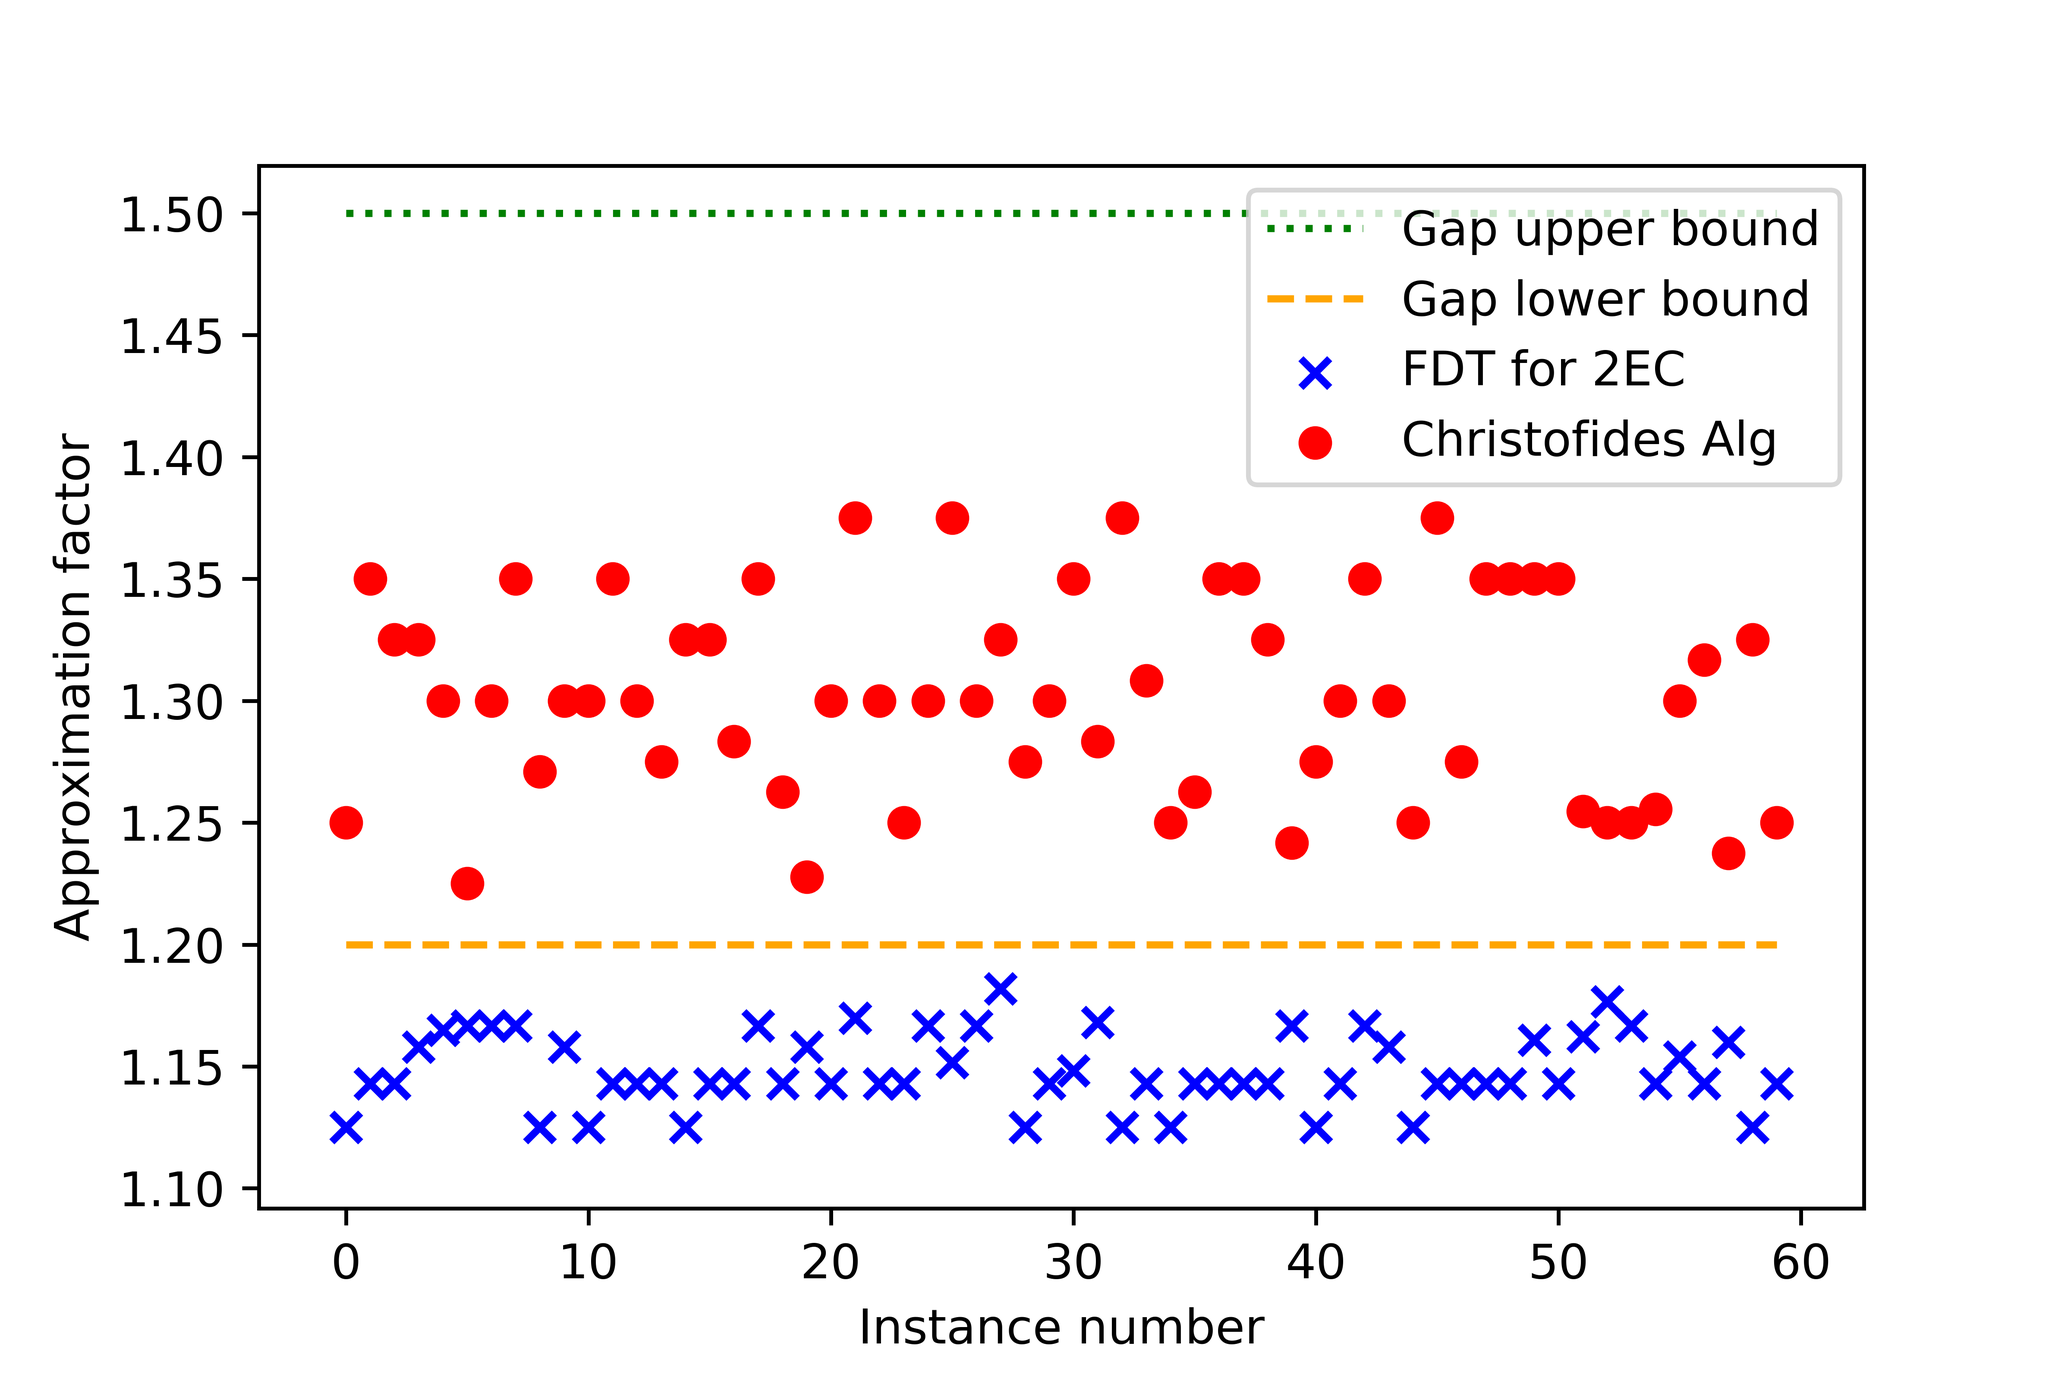
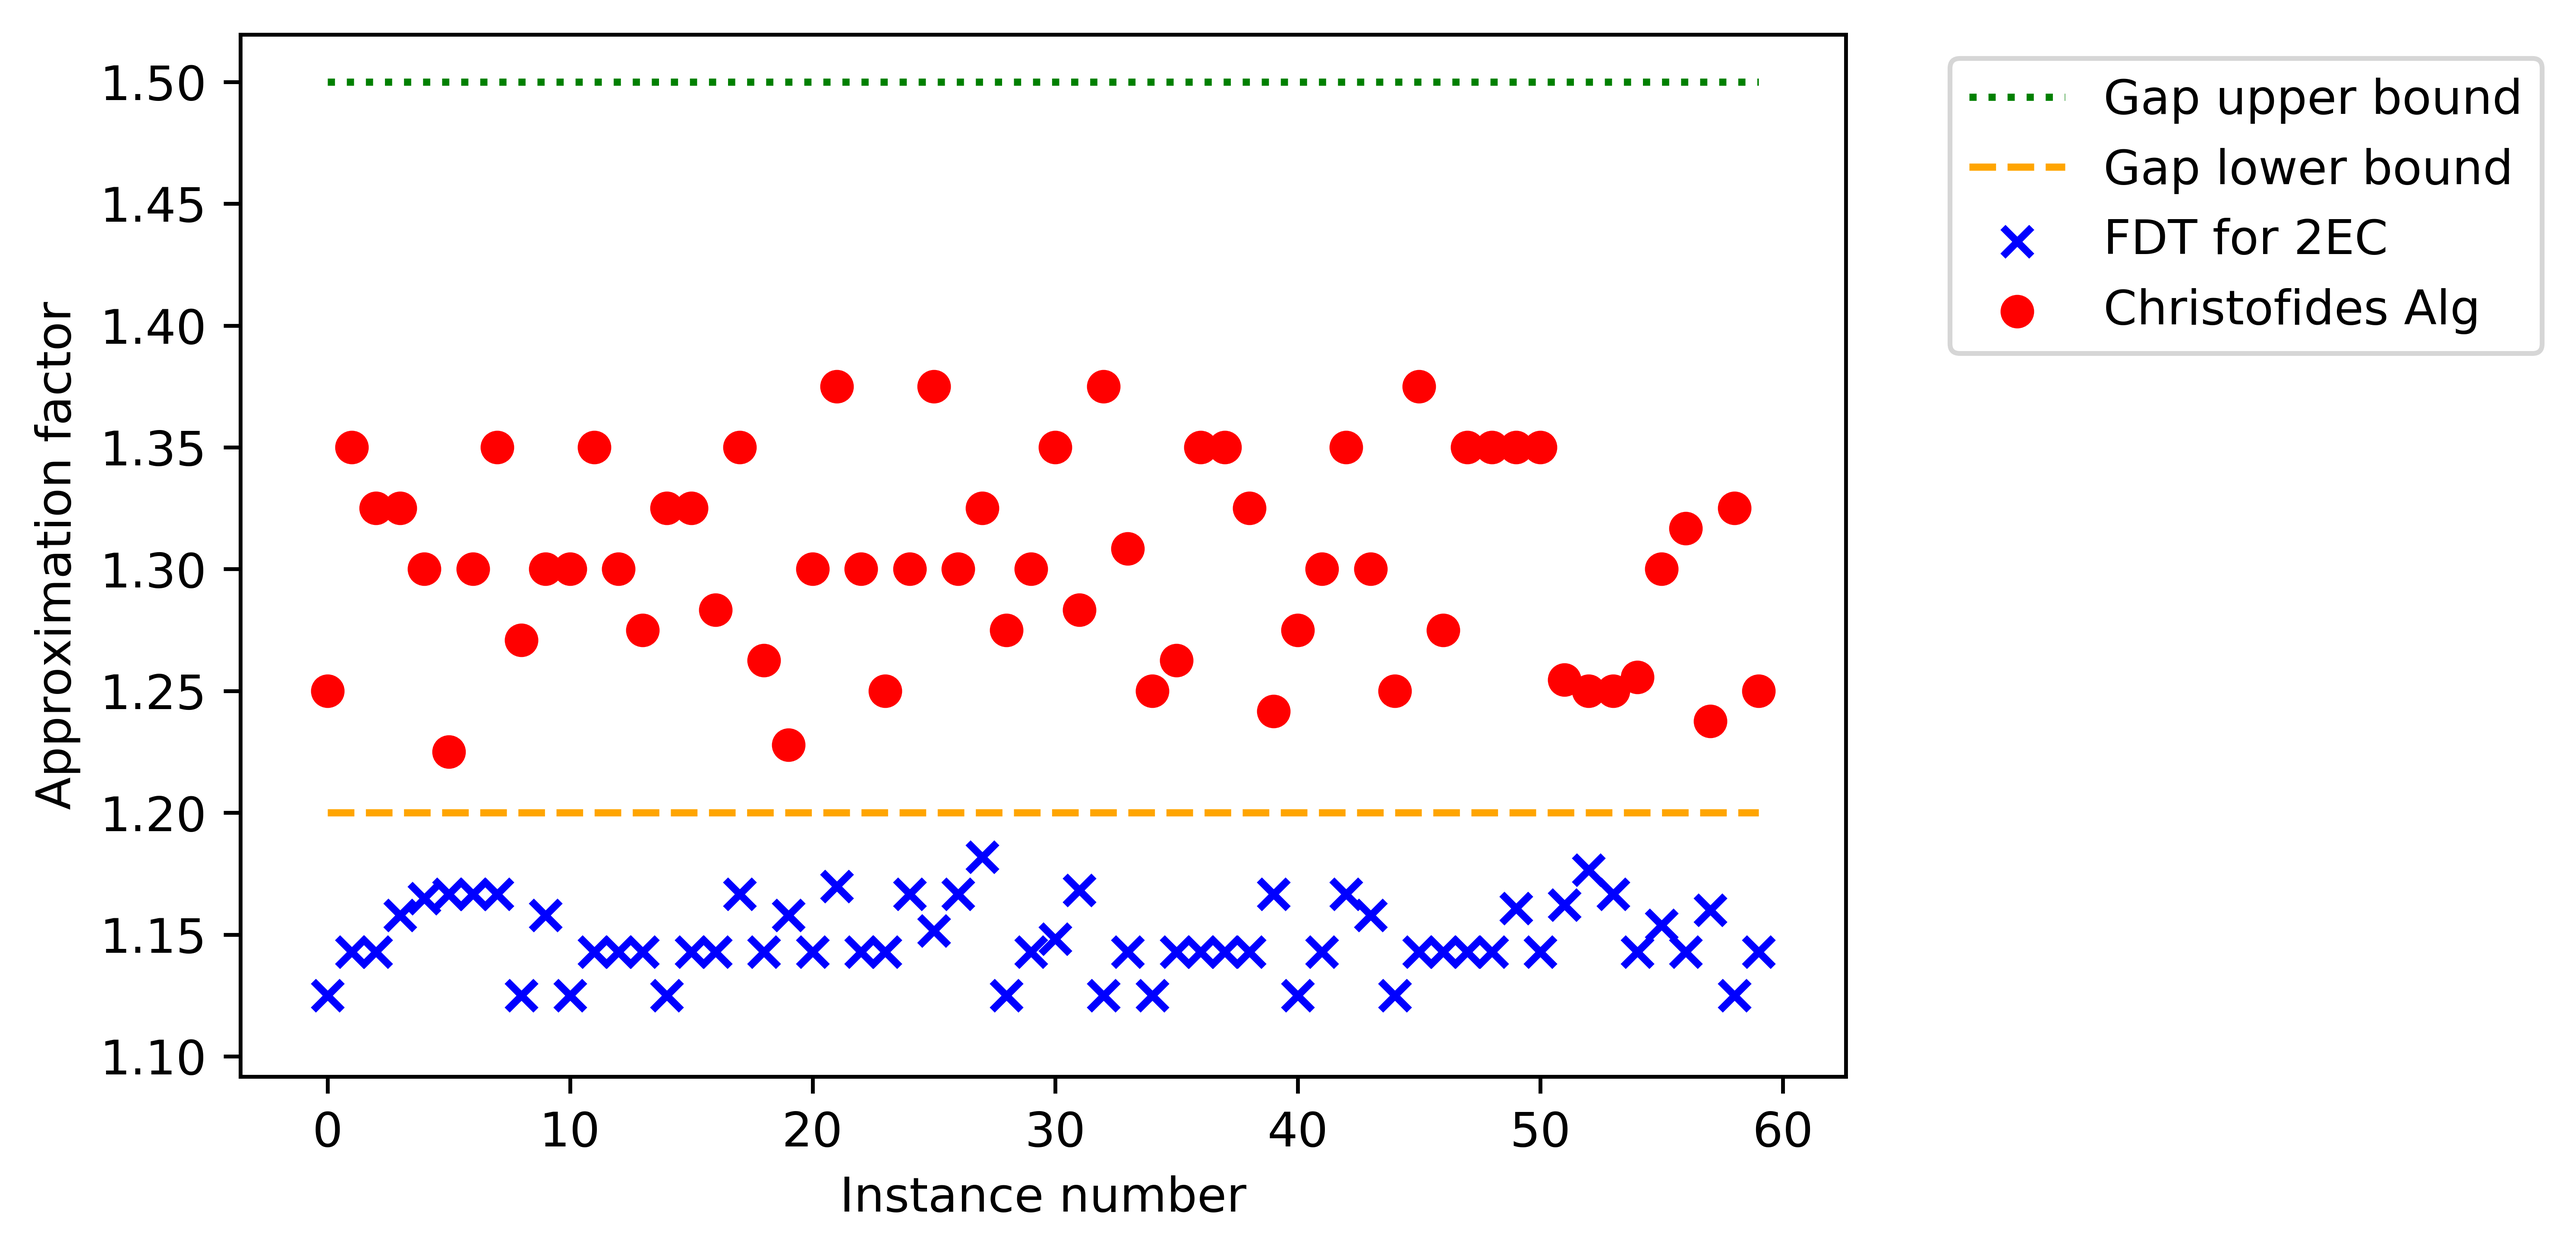
chris vs FDT plot updated (leneged out of the plot now)

diff --git a/FDT2020/main-section.tex b/FDT2020/main-section.tex
@@ -7,7 +7,7 @@
 In this section we give the algorithm for DomToIP and prove its performance (Theorem~\ref{domtoIP}).
 
 Consider an instance $I=(A,b)$ of the IP formulation. Define sets $S(I)$ and $P(I)$ as in (\ref{S}) and (\ref{P}), respectively. Assume $S(I)\subseteq \{0,1\}^n$ and $P(I)\subseteq [0,1]^n$. For simplicity in the notation we assume an instance $I$ and denote $P(I),S(I),$ and $g(I)$ by $P$, $S$, and $g$ for this section and the next section. Also, for both sections we assume $t=|\spp(x)|$. Without loss of generality we can assume $x_i = 0$ for $i=t+1,\ldots,n$.
-\cindy{TODO: Is this something that should be clear to the reader with what they know at this point? Does it need an explanation? Does it need an explanation at the end of this section or the next?}
+\cindy{TODO: Is this something that should be clear to the reader with what they know at this point? Does it need an explanation? Does it need an explanation at the end of this section or the next?}\arash{this is just a relabeling of the indices.}
 
 In this section we prove Theorem \ref{domtoIP}. In fact, we prove a stronger result. 
 \begin{lemma}\label{domlemma}
@@ -309,7 +309,7 @@ Recall that in the tree-augmentation problem (TAP) we are given a tree $T=(V,E)$
 \begin{equation*}
 g(\tap) = \max_{c\in \mathbb{R}^L_{\geq 0}} \frac{\min_{x\in\tap(T,L)} cx}{\min_{x\in\cut(T,L)} cx},
 \end{equation*}  
-where $TAP(T,L)$ is the feasible set for the IP and $CUT(T,L)$ is the feasible set for the cut LP (relaxation). We know $\frac{3}{2}\leq g(\tap)\leq 2$~\cite{FJ81,32gaptap}. Notice that $\min_{x\in \tap(T,L)}cx$ is a binary IP. 
+where $TAP(T,L)$ is the feasible set for the IP and $CUT(T,L)$ is the feasible set for the cut LP (relaxation). \arash{Did you intentionally change the TAP and CUT module? They print as italic now as opposed to how they look in $\tap(T,L)$ and $\cut(T,L)$} We know $\frac{3}{2}\leq g(\tap)\leq 2$~\cite{FJ81,32gaptap}. Notice that $\min_{x\in \tap(T,L)}cx$ is a binary IP. 
 
 As input for our experiments, we considered full binary trees with 3 to 7 levels with a link for each pairs of leaves. We set the link costs uniformly at random.  We summarize these test instances in Table~\ref{tableTAP}. We ran binary FDT on each test instance and chose the solution with minimum cost. We compare the FDT solutions to those from the circulation-based 2-approximation algorithm of Frederickson and J\'{a}J\'{a}~\cite{FJ81} in Figure \ref{fjvsfdt}.  
 \cindy{We should say something about running time.  Since we showed running time in part a, the reader will just assume otherwise that our running time is terrible compared to the Fredrickson and J\'{a}J\'{a} algorithm.}
@@ -338,6 +338,7 @@ For all 450 instances in our experiments, running FDT on the LP optimal (fractio
 In fact, the integrality gap upper bound derived this way was equal to $\frac{3}{2}$ for only one instance.
 %the upper bound we provided by our experiment is at $\frac{3}{2}$.
 For 425 instances, the integrality gap upper bound was $\frac{4}{3}$, for 22 instances it was $\frac{6}{5}$, for 2 instances it was $\frac{8}{7}$.
+\arash{it's all correct, I'm running the experiments again to get the running time so these numbers might change.}
 \paragraph{Computational comparison between Christofides' algorithm and FDT for 2EC on Carr-Vempala points.} 
 
 First we need to describe the polyhedral version Christofides' algorithm. We do this specifically for the Carr-Vempala points. Let $x$ be a Carr-Vempala points defined on a graph $G=(V,E)$. It is well known that $\frac{|V|-1}{|V|}\cdot x$ is in the convex hull of incidence vectors of spanning trees of $G$. Hence, we can write $\frac{|V|-1}{|V|}\cdot x= \sum_{i=1}^{k}\lambda_i\chi^{T_i}$ where $T_i$ is spanning tree of $G$, $\sum_{i=1}^{k}\lambda_i=1$, and $\lambda_i\geq 0$ for $i\in [k]$. Let $O_i$ be the set of odd degree vertices of $T_i$. It is easy to see that $\frac{x}{2}$ is in the convex hull of incidence vectors of $O_i$-join of $G$, namely $O_i\join(G)$~\footnote{For graph $G=(V,E)$ and $O\subseteq V$ with $|O|$ even, and $O$-join of $G$ is a subgraph of $G$ that has odd degree on the vertices in $O$ and even degree on vertices in $V\setminus O$.}. 

diff --git a/FDT2020/FDT.tex b/FDT2020/FDT.tex
@@ -154,7 +154,7 @@ graphicx, verbatim, listings, color, fancybox}
 
 \author{\textsc{Robert Carr}\thanks{University of New Mexico  {\tt{bobcarr@unm.edu}}. This material is based upon research supported in part by
 the U.S. Office of Naval Research under award number N00014-18-1-2099.}
-\and \textsc{Arash Haddadan}\thanks{Carnegie Mellon University  {\tt{ahaddada@andrew.cmu.edu}}.}
+\and \textsc{Arash Haddadan}\thanks{University of Virginia \tt{ahaddadan@virginia.edu}. This work was mainly done when this author was a graduate student at Carnegie Mellon University.}
 \and \textsc{Cynthia A. Phillips}\thanks{Sandia National Laboratories  {\tt{caphill@sandia.gov}}. Sandia National Laboratories is a multi-mission laboratory managed and operated by National Technology and Engineering Solutions of Sandia, LLC., a wholly owned subsidiary of Honeywell International, Inc., for the U.S. Department of Energy’s National Nuclear Security Administration under contract DE-NA0003525.}}
 
 
